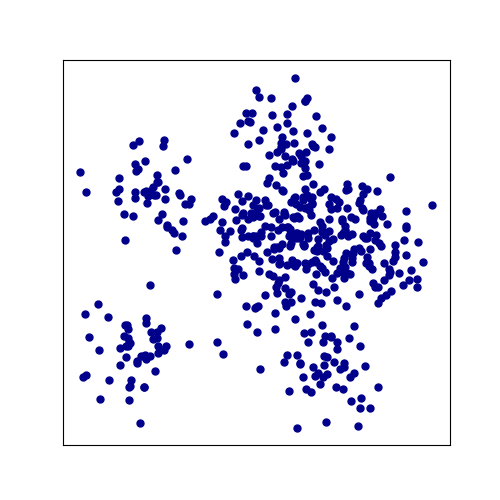
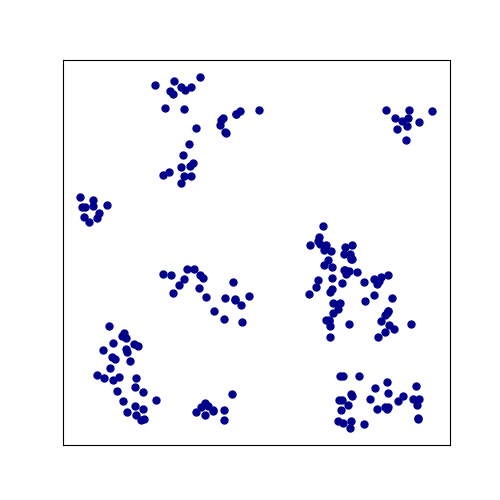
Add MIS problem

diff --git a/problems/mis.py b/problems/mis.py
@@ -1,0 +1,97 @@
+from ml4co_kit import MISDataGenerator, MISSolver, draw_mis_problem
+
+# RB
+# mis_rb = MISDataGenerator(
+#     num_threads=1,
+#     data_type="rb",
+#     train_samples_num=1,
+#     val_samples_num=0,
+#     test_samples_num=0,
+#     save_path="problems/data/mis/rb",
+#     nodes_num_min=60,
+#     nodes_num_max=100,
+# )
+# mis_rb.generate()
+# solver = MISSolver()
+# solver.from_txt("problems/data/mis/rb/mis_rb-60-100.txt")
+# draw_mis_problem(
+#     save_path="problems/figures/mis_rb.png",
+#     graph_data=solver.graph_data[0],
+# )
+
+# ba
+# mis_ba = MISDataGenerator(
+#     num_threads=1,
+#     data_type="ba",
+#     train_samples_num=1,
+#     val_samples_num=0,
+#     test_samples_num=0,
+#     save_path="problems/data/mis/ba",
+#     nodes_num_min=60,
+#     nodes_num_max=100,
+# )
+# mis_ba.generate()
+# solver = MISSolver()
+# solver.from_txt("problems/data/mis/ba/mis_ba-60-100.txt")
+# draw_mis_problem(
+#     save_path="problems/figures/mis_ba.png",
+#     graph_data=solver.graph_data[0],
+# )
+
+# hk
+# mis_hk = MISDataGenerator(
+#     num_threads=1,
+#     data_type="hk",
+#     train_samples_num=1,
+#     val_samples_num=0,
+#     test_samples_num=0,
+#     save_path="problems/data/mis/hk",
+#     nodes_num_min=60,
+#     nodes_num_max=100,
+# )
+# mis_hk.generate()
+# solver = MISSolver()
+# solver.from_txt("problems/data/mis/hk/mis_hk-60-100.txt")
+# draw_mis_problem(
+#     save_path="problems/figures/mis_hk.png",
+#     graph_data=solver.graph_data[0],
+# )
+
+# ws
+# mis_ws = MISDataGenerator(
+#     num_threads=1,
+#     data_type="ws",
+#     train_samples_num=1,
+#     val_samples_num=0,
+#     test_samples_num=0,
+#     save_path="problems/data/mis/ws",
+#     nodes_num_min=60,
+#     nodes_num_max=100,
+# )
+# mis_ws.generate()
+# solver = MISSolver()
+# solver.from_txt("problems/data/mis/ws/mis_ws-60-100.txt")
+# draw_mis_problem(
+#     save_path="problems/figures/mis_ws.png",
+#     graph_data=solver.graph_data[0],
+# )
+
+# er
+mis_er = MISDataGenerator(
+    num_threads=1,
+    data_type="er",
+    train_samples_num=1,
+    val_samples_num=0,
+    test_samples_num=0,
+    save_path="problems/data/mis/er",
+    nodes_num_min=60,
+    nodes_num_max=100,
+    er_prob=0.3,
+)
+mis_er.generate()
+solver = MISSolver()
+solver.from_txt("problems/data/mis/er/mis_er-60-100.txt")
+draw_mis_problem(
+    save_path="problems/figures/mis_er.png",
+    graph_data=solver.graph_data[0],
+)

diff --git a/problems/tsp.py b/problems/tsp.py
@@ -3,7 +3,7 @@ from ml4co_kit import TSPDataGenerator, TSPSolver, draw_tsp_problem
 # uniform
 # tsp_uniform = TSPDataGenerator(
 #     num_threads=1,
-#     nodes_num=500,
+#     nodes_num=200,
 #     data_type="uniform",
 #     train_samples_num=1,
 #     val_samples_num=0,
@@ -12,7 +12,7 @@ from ml4co_kit import TSPDataGenerator, TSPSolver, draw_tsp_problem
 # )
 # tsp_uniform.generate()
 # solver = TSPSolver()
-# solver.from_txt("problems/data/tsp/uniform/tsp500_uniform.txt")
+# solver.from_txt("problems/data/tsp/uniform/tsp200_uniform.txt")
 # draw_tsp_problem(
 #     save_path="problems/figures/tsp_uniform.png",
 #     points=solver.points,
@@ -22,7 +22,7 @@ from ml4co_kit import TSPDataGenerator, TSPSolver, draw_tsp_problem
 # gaussian
 # tsp_gaussian = TSPDataGenerator(
 #     num_threads=1,
-#     nodes_num=500,
+#     nodes_num=200,
 #     data_type="gaussian",
 #     train_samples_num=1,
 #     val_samples_num=0,
@@ -31,7 +31,7 @@ from ml4co_kit import TSPDataGenerator, TSPSolver, draw_tsp_problem
 # )
 # tsp_gaussian.generate()
 # solver = TSPSolver()
-# solver.from_txt("problems/data/tsp/gaussian/tsp500_gaussian.txt")
+# solver.from_txt("problems/data/tsp/gaussian/tsp200_gaussian.txt")
 # draw_tsp_problem(
 #     save_path="problems/figures/tsp_gaussian.png",
 #     points=solver.points,
@@ -39,20 +39,22 @@ from ml4co_kit import TSPDataGenerator, TSPSolver, draw_tsp_problem
 # )
 
 # cluster
-tsp_cluster = TSPDataGenerator(
-    num_threads=1,
-    nodes_num=500,
-    data_type="cluster",
-    train_samples_num=1,
-    val_samples_num=0,
-    test_samples_num=0,
-    save_path="problems/data/tsp/cluster"
-)
-tsp_cluster.generate()
-solver = TSPSolver()
-solver.from_txt("problems/data/tsp/cluster/tsp500_cluster.txt")
-draw_tsp_problem(
-    save_path="problems/figures/tsp_cluster.png",
-    points=solver.points,
-    node_size=25,
-)
+# tsp_cluster = TSPDataGenerator(
+#     num_threads=1,
+#     nodes_num=200,
+#     data_type="cluster",
+#     train_samples_num=1,
+#     val_samples_num=0,
+#     test_samples_num=0,
+#     save_path="problems/data/tsp/cluster",
+#     cluster_nums=20,
+#     cluster_std=0.03
+# )
+# tsp_cluster.generate()
+# solver = TSPSolver()
+# solver.from_txt("problems/data/tsp/cluster/tsp200_cluster.txt")
+# draw_tsp_problem(
+#     save_path="problems/figures/tsp_cluster.png",
+#     points=solver.points,
+#     node_size=25,
+# )
